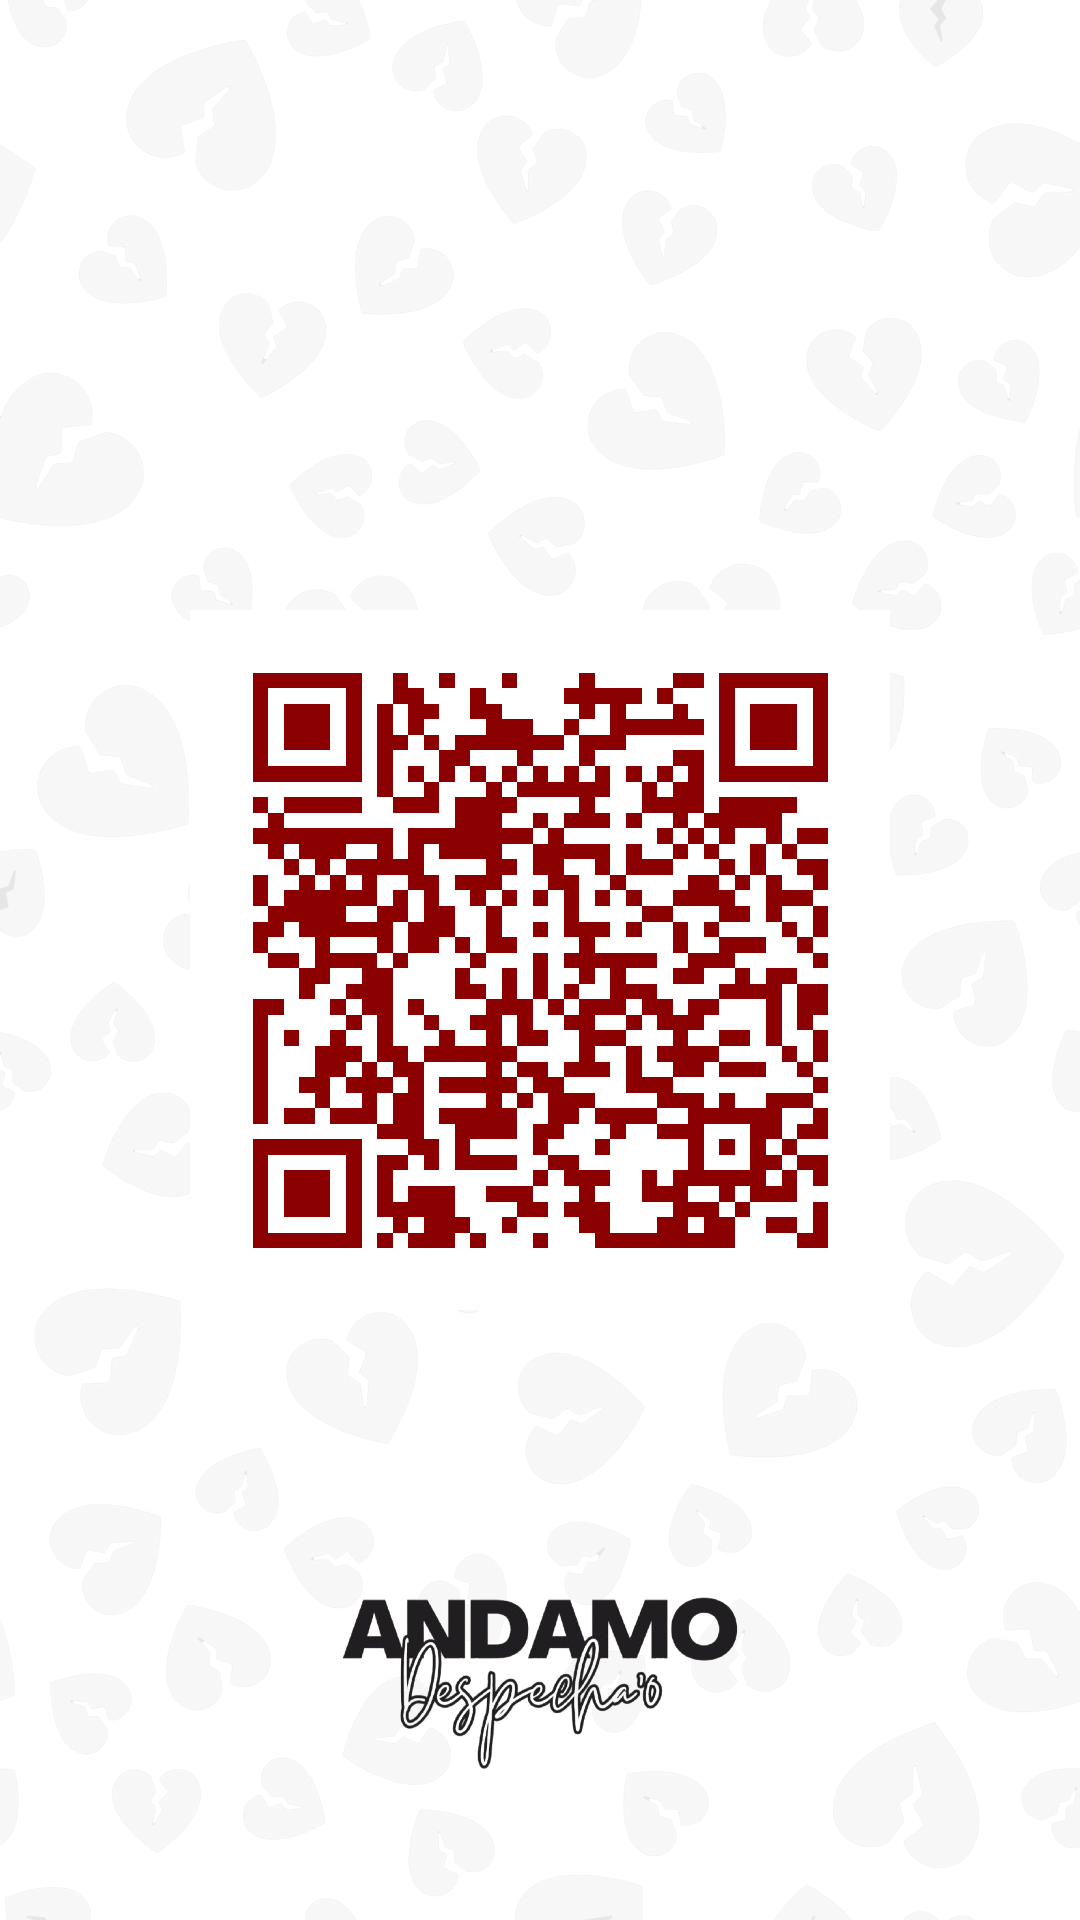
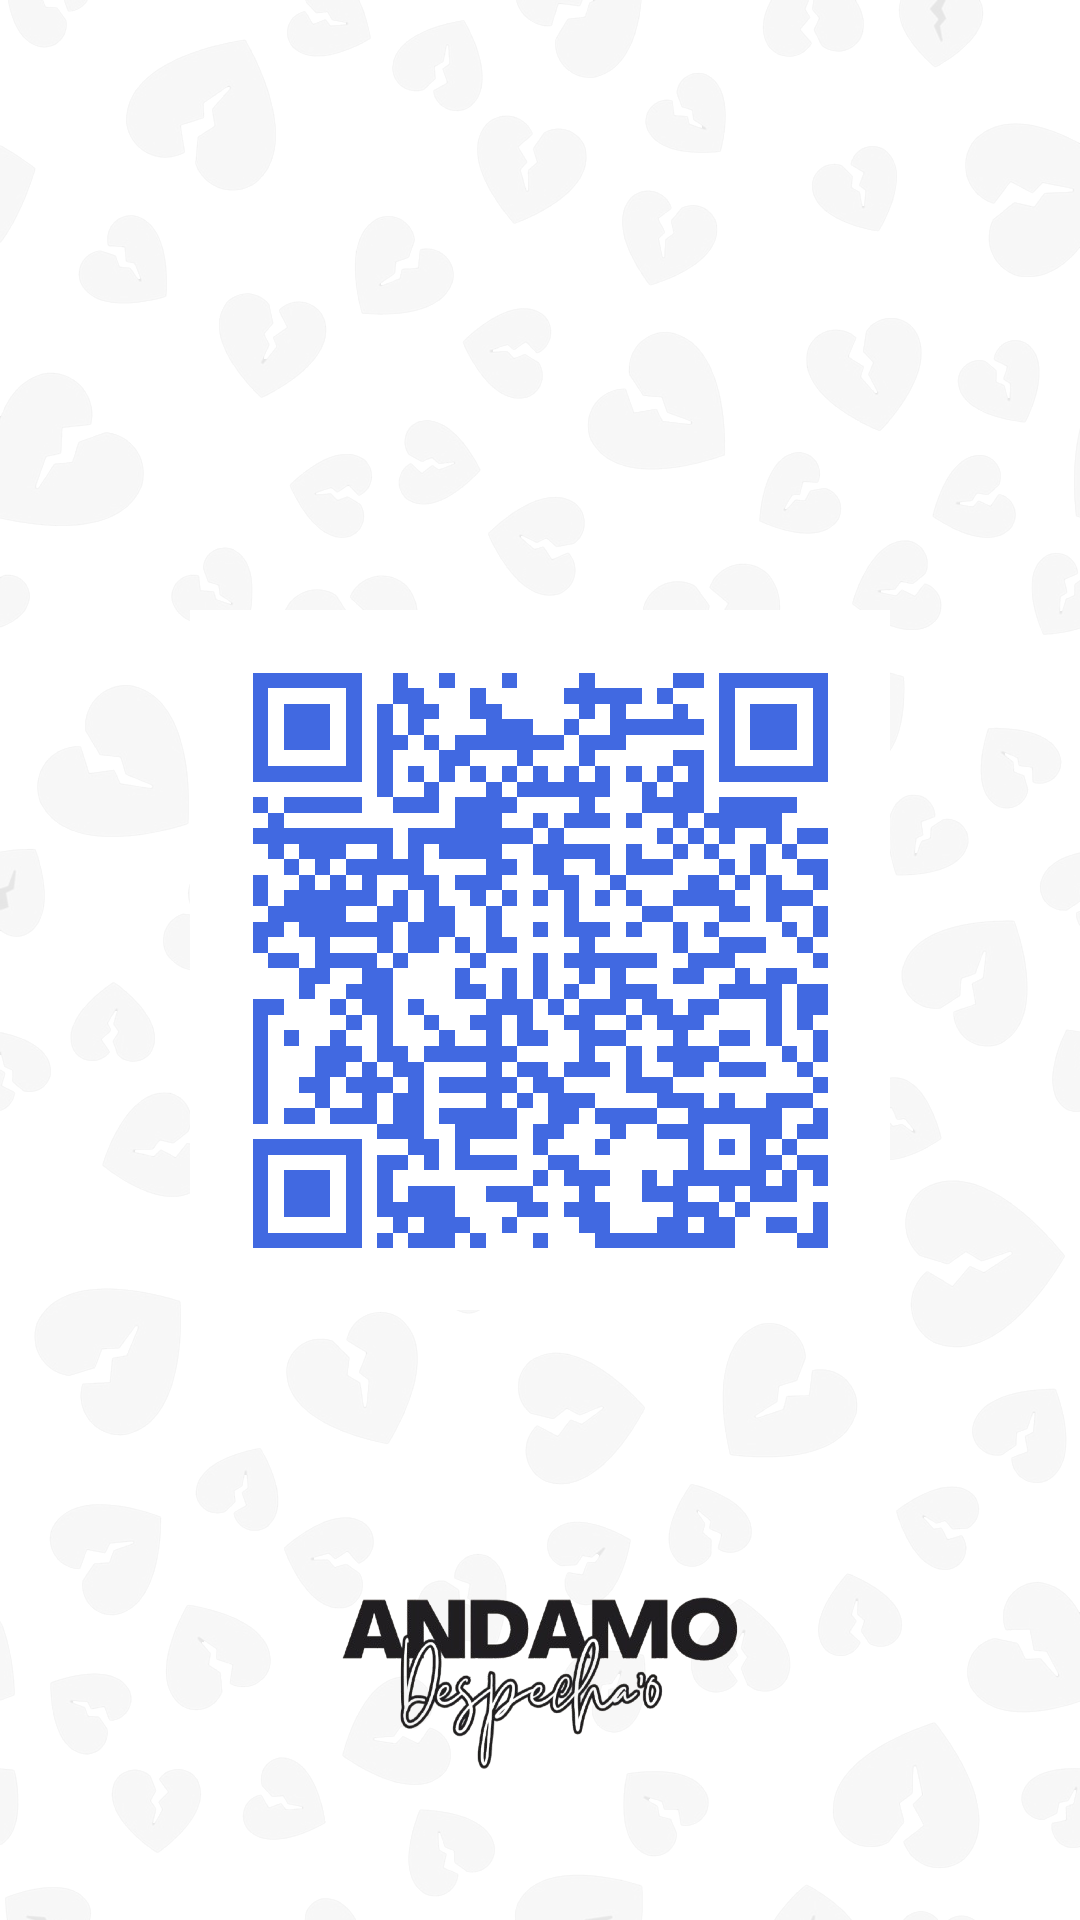
feat: added colorways

Changed region(s): [[0.2139, 0.3438, 0.7639, 0.6562]]

diff --git a/ticker-selling-system/src/utils/createImage.ts b/ticker-selling-system/src/utils/createImage.ts
@@ -4,15 +4,17 @@ import sharp from 'sharp';
 async function createQRCodeComposite(
   hash: string,
   backgroundImagePath: string,
-  outputImagePath: string
+  outputImagePath: string,
+  transport: boolean = false
 ): Promise<void> {
   try {
+    const color = transport ? '#4169E1' : '#8B0000';
     // Genera el código QR como buffer PNG con un ancho (y alto) de 250 píxeles.
     const qrBuffer = await QRCode.toBuffer(hash, {
       type: 'png',
       width: 700,
       color: {
-        dark: '#8B0000',  // Color rojo vino para los módulos del QR.
+        dark: color,  // Color rojo vino para los módulos del QR.
         light: '#ffffff', // Color de fondo del QR.
       },
     });
@@ -48,4 +50,4 @@ const hash = "66b030d4c688ace4db79efded3d2ef15f5f459051dd405abd12521c7bd08c855";
 const backgroundImagePath = "./background.png"; // Ruta de la imagen de fondo
 const outputImagePath = "./composite.png";        // Ruta donde se guardará la imagen resultante
 
-createQRCodeComposite(hash, backgroundImagePath, outputImagePath);
+createQRCodeComposite(hash, backgroundImagePath, outputImagePath, true);
